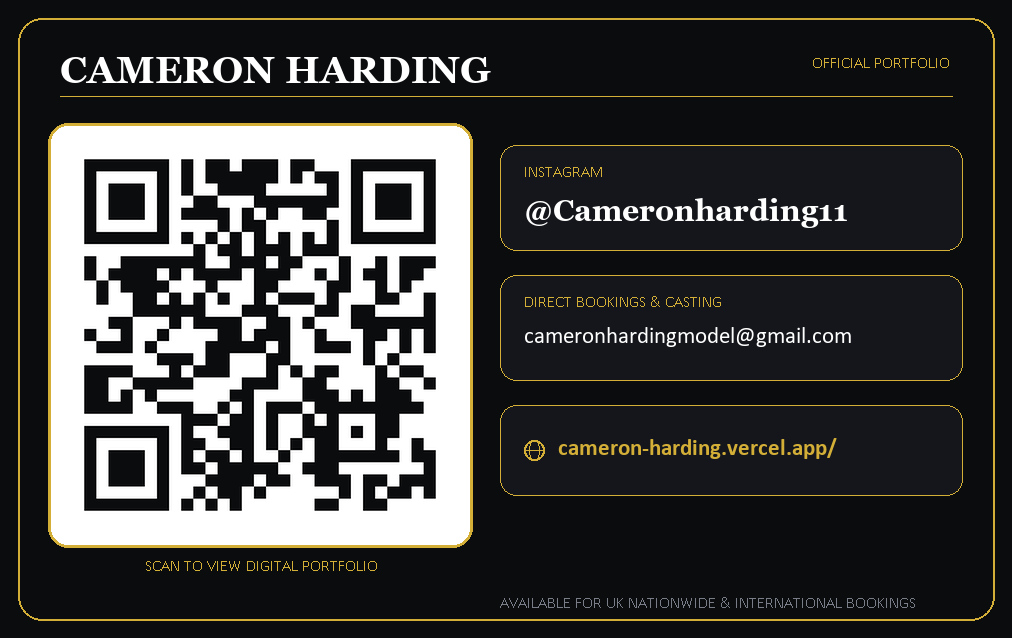
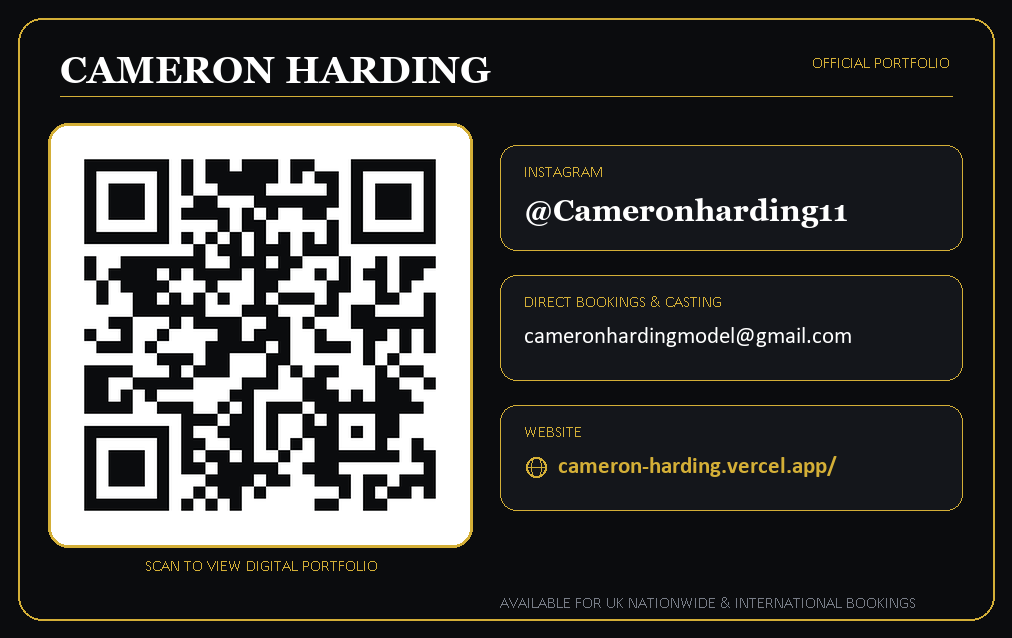
Add WEBSITE title to business card back

Changed region(s): [[0.5208, 0.6552, 0.8271, 0.7445], [0.5208, 0.7743, 0.919, 0.8041]]

diff --git a/business_card.html b/business_card.html
@@ -267,7 +267,7 @@
                                     <svg class="w-4 h-4" fill="none" stroke="currentColor" viewBox="0 0 24 24"><path stroke-linecap="round" stroke-linejoin="round" stroke-width="2" d="M21 12a9 9 0 01-9 9m9-9a9 9 0 00-9-9m9 9H3m9 9a9 9 0 01-9-9m9 9c1.657 0 3-4.03 3-9s-1.343-9-3-9m0 18c-1.657 0-3-4.03-3-9s1.343-9 3-9m-9 9a9 9 0 019-9"></path></svg>
                                 </div>
                                 <div class="overflow-hidden">
-                                    <span class="text-[8px] uppercase tracking-wider text-zinc-400 block leading-none">Official Site</span>
+                                    <span class="text-[8px] uppercase tracking-wider text-amber-400 font-semibold block leading-none">Website</span>
                                     <span class="text-[11px] font-mono font-medium text-white truncate block mt-0.5">cameron-harding.vercel.app/</span>
                                 </div>
                             </a>

diff --git a/generate_card_images.py b/generate_card_images.py
@@ -170,18 +170,20 @@ b_draw.rounded_rectangle([(rx, ry), (box_w, ry + 105)], radius=16, fill=(20, 22,
 b_draw.text((rx + 24, ry + 20), "DIRECT BOOKINGS & CASTING", fill=gold, font=font_sans_xs)
 b_draw.text((rx + 24, ry + 50), "cameronhardingmodel@gmail.com", fill=(255, 255, 255, 255), font=font_email)
 
-# Website Box with Web Icon
+# Website Box with Web Icon & Title
 ry += 130
-b_draw.rounded_rectangle([(rx, ry), (box_w, ry + 90)], radius=16, fill=(20, 22, 27, 255), outline=(212, 175, 55, 90), width=1)
-# Draw web icon
+b_draw.rounded_rectangle([(rx, ry), (box_w, ry + 105)], radius=16, fill=(20, 22, 27, 255), outline=(212, 175, 55, 90), width=1)
+b_draw.text((rx + 24, ry + 20), "WEBSITE", fill=gold, font=font_sans_xs)
+
+# Draw web icon and URL below title
 b_icon_r = 10
-b_icon_cx = rx + 34
-b_icon_cy = ry + 45
+b_icon_cx = rx + 36
+b_icon_cy = ry + 62
 b_draw.ellipse([(b_icon_cx - b_icon_r, b_icon_cy - b_icon_r), (b_icon_cx + b_icon_r, b_icon_cy + b_icon_r)], outline=gold, width=2)
 b_draw.ellipse([(b_icon_cx - b_icon_r // 2, b_icon_cy - b_icon_r), (b_icon_cx + b_icon_r // 2, b_icon_cy + b_icon_r)], outline=gold, width=1)
 b_draw.line([(b_icon_cx - b_icon_r, b_icon_cy), (b_icon_cx + b_icon_r, b_icon_cy)], fill=gold, width=1)
 
-b_draw.text((rx + 58, ry + 32), "cameron-harding.vercel.app/", fill=gold, font=font_web)
+b_draw.text((rx + 58, ry + 50), "cameron-harding.vercel.app/", fill=gold, font=font_web)
 
 # Bottom Agency note
 b_draw.text((rx, H - 42), "AVAILABLE FOR UK NATIONWIDE & INTERNATIONAL BOOKINGS", fill=(120, 125, 135, 255), font=font_sans_xs)
